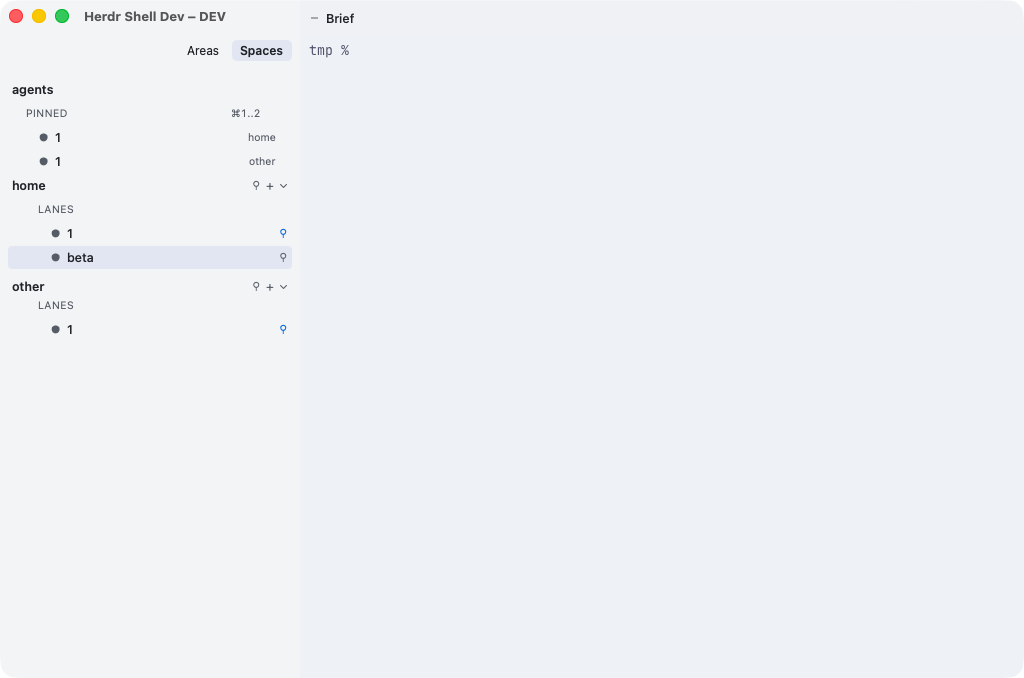
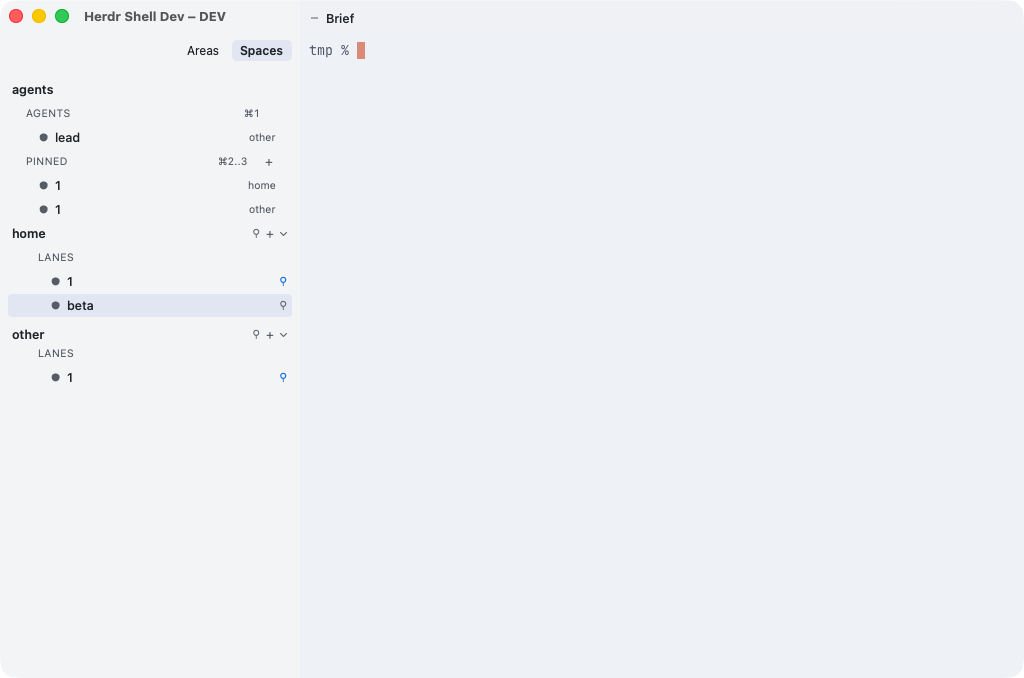
fix(shell): new pinned chat waits for its snapshot and reads the live pin end
Review of 421fe6a3 (codex-verifier, FAIL, two must-fix). Selecting the new
chat now goes through the pending-selection path the New Tab command uses,
so it lands once a snapshot lists the tab. The pin's end index is read from
the owning server after pinning instead of from a snapshot that may be
behind, and a failed pin or move is logged. The check adds an agent pin so
the global index offset is exercised, and its shots are from the head run.

diff --git a/macos/HerdrShell/Sources/HerdrShell/HerdrModel.swift b/macos/HerdrShell/Sources/HerdrShell/HerdrModel.swift
@@ -349,17 +349,21 @@ extension HerdrModel {
     }
 
     /// A new chat pinned at the end of PINNED, in the focused chat's space (a local space when
-    /// nothing is focused), then `done` with its id to focus it. Alex, 2026-10-06: "i need a
-    /// button next to pinned to make a new tab that's pinned please".
+    /// nothing is focused), then `done` with its id once it is pinned. Alex, 2026-10-06: "i need
+    /// a button next to pinned to make a new tab that's pinned please".
     func newPinnedTab(focused: String?, done: @escaping (String) -> Void) {
-        let owner = focused.flatMap { id in source(for: id).flatMap { s in s.tabs.first { $0.tab_id == id }.map { (s, $0.workspace_id) } } }
-        guard let (source, workspace) = owner ?? snapshot.flatMap({ s in s.workspaces.first.map { (s, $0.workspace_id) } }) else { return }
-        // Pins keep server order; the new pin's place is after every pin its machine holds.
-        let end = source.tabs.filter { $0.pin_index != nil }.count
+        let workspace = focused.flatMap { id in source(for: id)?.tabs.first { $0.tab_id == id }?.workspace_id }
+            ?? snapshot?.workspaces.first?.workspace_id
+        guard let workspace else { return }
         let commands = HerdrCommands(socketPath: env["HERDR_SOCKET_PATH"] ?? "")
         DispatchQueue.global(qos: .userInitiated).async {
             guard let made = commands.tabCreate(workspaceId: workspace, cwd: nil) else { log("new pinned tab failed"); return }
-            if commands.tabSetPinned(tabId: made.tabId, pinned: true) { _ = commands.tabPinMove(tabId: made.tabId, pinIndex: end) }
+            guard commands.tabSetPinned(tabId: made.tabId, pinned: true) else { log("new pinned tab: pin failed \(made.tabId)"); return }
+            // A pin lands by priority, so one dragged to the end can still sit after it. The end is
+            // read from the owning server after the pin, not from a snapshot that may be behind.
+            if let pins = commands.pinCount(near: made.tabId), pins > 0, !commands.tabPinMove(tabId: made.tabId, pinIndex: pins - 1) {
+                log("new pinned tab: pin_move failed \(made.tabId)")
+            }
             DispatchQueue.main.async { done(made.tabId) }
         }
     }

diff --git a/macos/HerdrShell/Sources/HerdrShell/MainWindow.swift b/macos/HerdrShell/Sources/HerdrShell/MainWindow.swift
@@ -209,6 +209,7 @@ final class MainWindowController: NSObject, NSWindowDelegate {
                                                               guard let self else { return }
                                                               if self.state.mode == .areas { self.selectAreaTab(tab) } else { self.selectTab(tab) }
                                                           },
+                                                          selectNew: { [weak self] in self?.selectWhenListed($0) },
                                                           onFactory: { [weak self] in self?.toggleFactory() },
                                                           onRename: { [weak self] tab in self?.promptRenameTab(tab) }))
         sidebarContainer = SidebarContainer(content: sidebar)
@@ -723,10 +724,15 @@ final class MainWindowController: NSObject, NSWindowDelegate {
             let r = cmds.tabCreate(workspaceId: ws, cwd: nil)
             DispatchQueue.main.async { [self] in
                 guard let r else { log("new tab failed"); return }
-                pendingSelectTab = r.tabId
-                snapshotChanged()   // the tab.created event may already have landed
+                selectWhenListed(r.tabId)
             }
         }
+    }
+
+    /// Selects a tab just created once a snapshot lists it.
+    func selectWhenListed(_ tabId: String) {
+        pendingSelectTab = tabId
+        snapshotChanged()   // the tab.created event may already have landed
     }
 
     @objc func splitRight(_ sender: Any?) { split("right") }

diff --git a/macos/HerdrShell/Sources/HerdrShell/HerdrClient.swift b/macos/HerdrShell/Sources/HerdrShell/HerdrClient.swift
@@ -393,6 +393,17 @@ struct HerdrCommands {
         succeeded("tab.pin_move", ["tab_id": tabId, "pin_index": pinIndex])
     }
 
+    /// Pins on the server that owns `tabId`, from `tab.list`. The tab id only routes the call to
+    /// that machine; tab.list ignores it and lists every workspace.
+    func pinCount(near tabId: String) -> Int? {
+        struct Env: Decodable {
+            struct R: Decodable { struct T: Decodable { let pin_index: Int? }; let tabs: [T] }
+            let result: R
+        }
+        guard let data = call("tab.list", ["tab_id": tabId]), let env = try? JSONDecoder().decode(Env.self, from: data) else { return nil }
+        return env.result.tabs.filter { $0.pin_index != nil }.count
+    }
+
     /// `tab.rename`.
     func tabRename(tabId: String, label: String) -> Bool {
         succeeded("tab.rename", ["tab_id": tabId, "label": label])

diff --git a/macos/HerdrShell/Sources/HerdrShell/Sidebar.swift b/macos/HerdrShell/Sources/HerdrShell/Sidebar.swift
@@ -168,6 +168,8 @@ struct SidebarView: View {
     /// nil means every row selects its tab.
     var openDetail: ((TabRow) -> Void)? = nil
     var select: (String) -> Void
+    /// Selects a tab just created, once a snapshot lists it.
+    var selectNew: (String) -> Void = { _ in }
     var onFactory: () -> Void = {}
     var onRename: (String) -> Void = { _ in }
 
@@ -302,7 +304,7 @@ struct SidebarView: View {
 
     private func spacesClick(_ row: SpacesRow, part: String) {
         if part == "plus", row.id == "pinned" {
-            model.newPinnedTab(focused: state.selectedTab) { select($0) }
+            model.newPinnedTab(focused: state.selectedTab, done: selectNew)
         } else if part == "plus" {
             let id = String(row.id.dropFirst(6))
             let commands = HerdrCommands(socketPath: model.env["HERDR_SOCKET_PATH"] ?? "")

diff --git a/macos/HerdrShell/Sources/HerdrShell/TestHook.swift b/macos/HerdrShell/Sources/HerdrShell/TestHook.swift
@@ -85,7 +85,7 @@ final class TestHook {
                 if row.kind == .tab, let tab = row.tab { c.model.togglePin(tab) } else { c.state.spacesChrome.toggle("pin:" + String(row.id.dropFirst(6))) }
             }
             else if part == "plus", row.id == "pinned" {
-                c.model.newPinnedTab(focused: c.state.selectedTab) { c.selectTab($0) }
+                c.model.newPinnedTab(focused: c.state.selectedTab, done: c.selectWhenListed)
             } else if part == "plus" {
                 let commands = c.commands
                 let space = String(row.id.dropFirst(6))

diff --git a/macos/HerdrShell/scripts/check_pinned_new_tab.py b/macos/HerdrShell/scripts/check_pinned_new_tab.py
@@ -6,7 +6,7 @@ Run only in the Cua Space: HERDR_SHELL_SPACE=1 python3 scripts/check_pinned_new_
 The click goes through NSApp.sendEvent at the + frame (the click hook, target pinned_plus).
 Checks:
   - a click adds one chat in the focused chat's space, last in PINNED and in the server's
-    pin order, and selects it.
+    pin order (whose index counts the agent pins ahead of it), and selects it.
 Writes checks/PINNED-NEW-TAB.txt and before/after shots.
 """
 import json
@@ -71,8 +71,10 @@ def main():
     a = home["tab"]["tab_id"]
     b = api("tab", "create", "--workspace", ws, "--label", "beta", "--no-focus")["tab"]["tab_id"]
     c = other["tab"]["tab_id"]
-    for tab in (a, c):
+    agent = api("tab", "create", "--workspace", elsewhere, "--label", "lead", "--no-focus")["tab"]["tab_id"]
+    for tab in (a, c, agent):
         S.lab("herdr", "tab", "pin", tab)
+    S.lab("herdr", "tab", "set-role", agent, "agent")
     S.app("start")
     # SwiftUI drops synthesized mouse events on a window that is not key; the Space is the
     # app's own desktop, so bringing it front takes nothing from anyone.
@@ -94,7 +96,7 @@ def main():
     check("it is last in PINNED", rows == [a, c, new], str(rows))
     pins = sorted((t for t in server_tabs(ws, elsewhere) if t.get("pin_index") is not None), key=lambda t: t["pin_index"])
     order = [t["tab_id"] for t in pins]
-    check("server pin order ends with it", order == [a, c, new], str(order))
+    check("server pin order ends with it", order == [agent, a, c, new], str(order))
     check("it is focused", state.get("selected_tab") == new, str(state.get("selected_tab")))
     S.cmd({"cmd": "shot", "out": str(ROOT / "checks/PINNED-NEW-TAB-after.png")})
 
